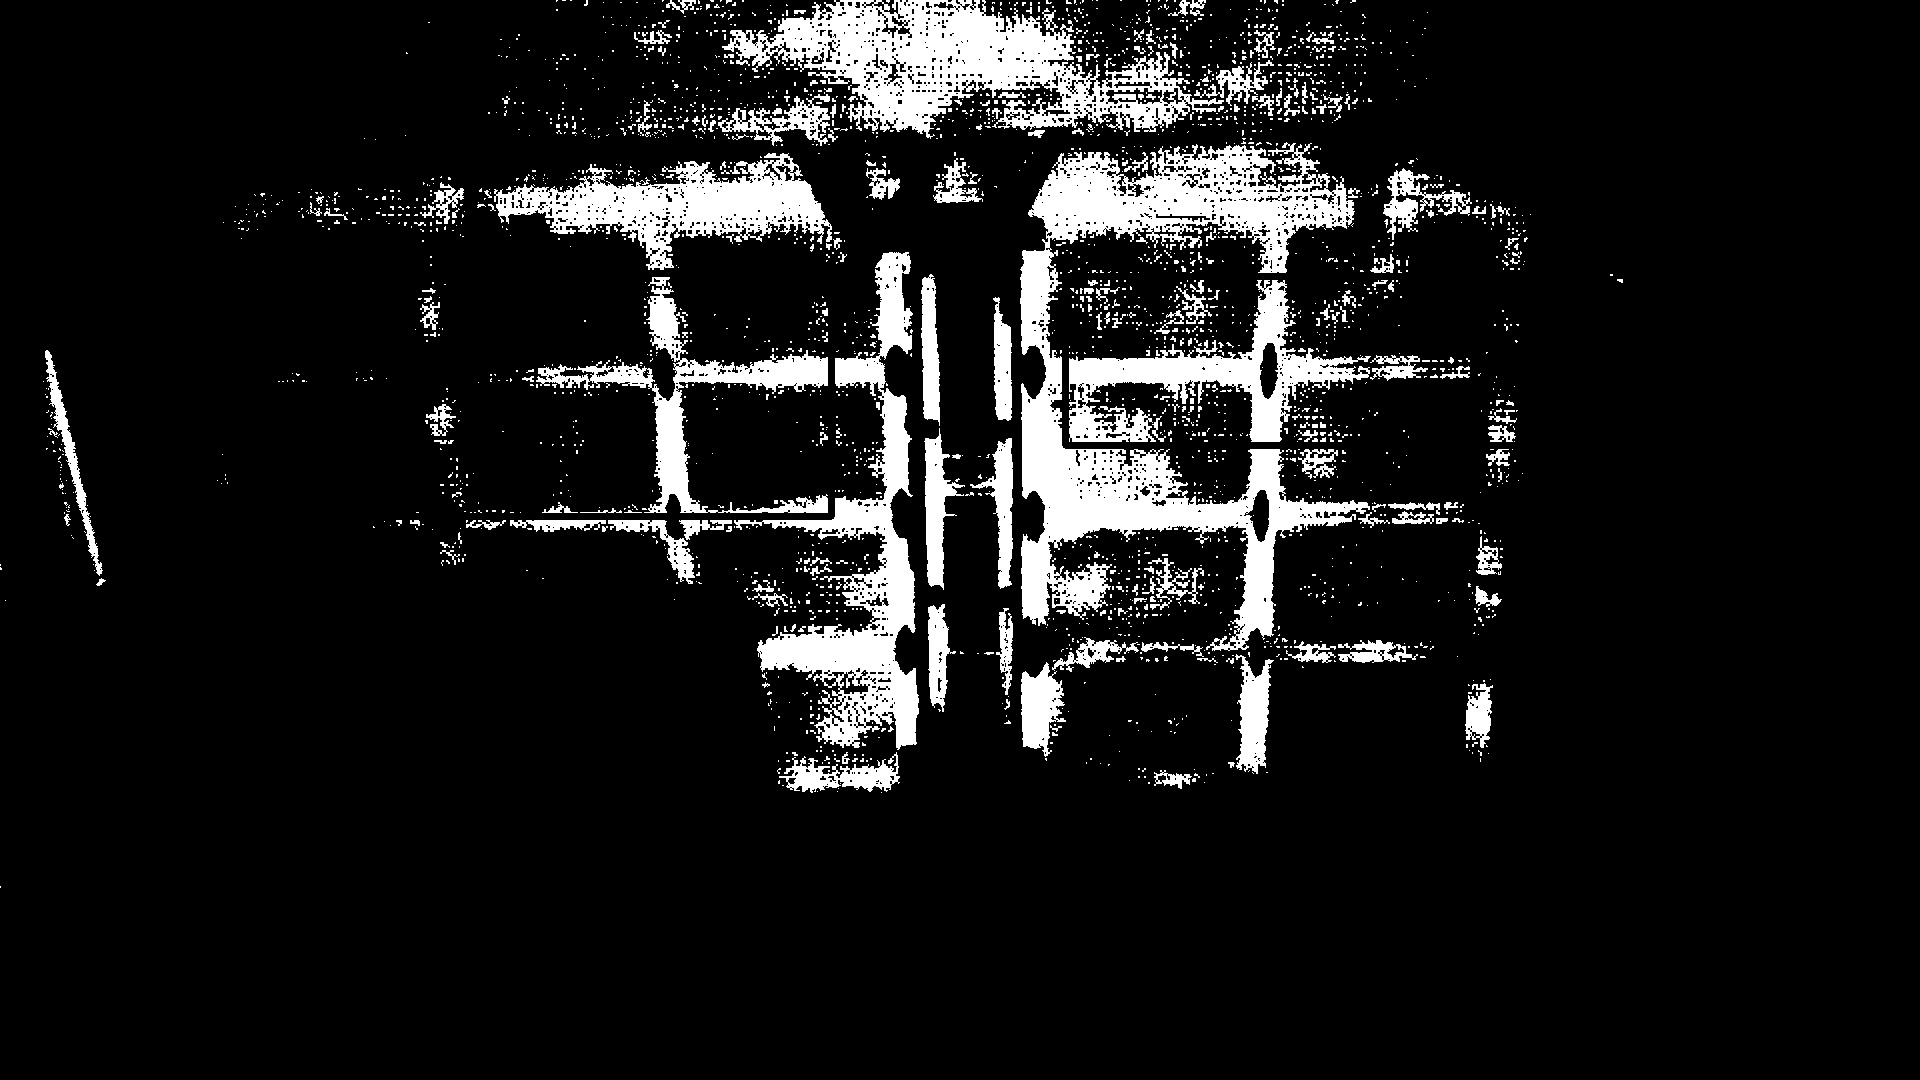
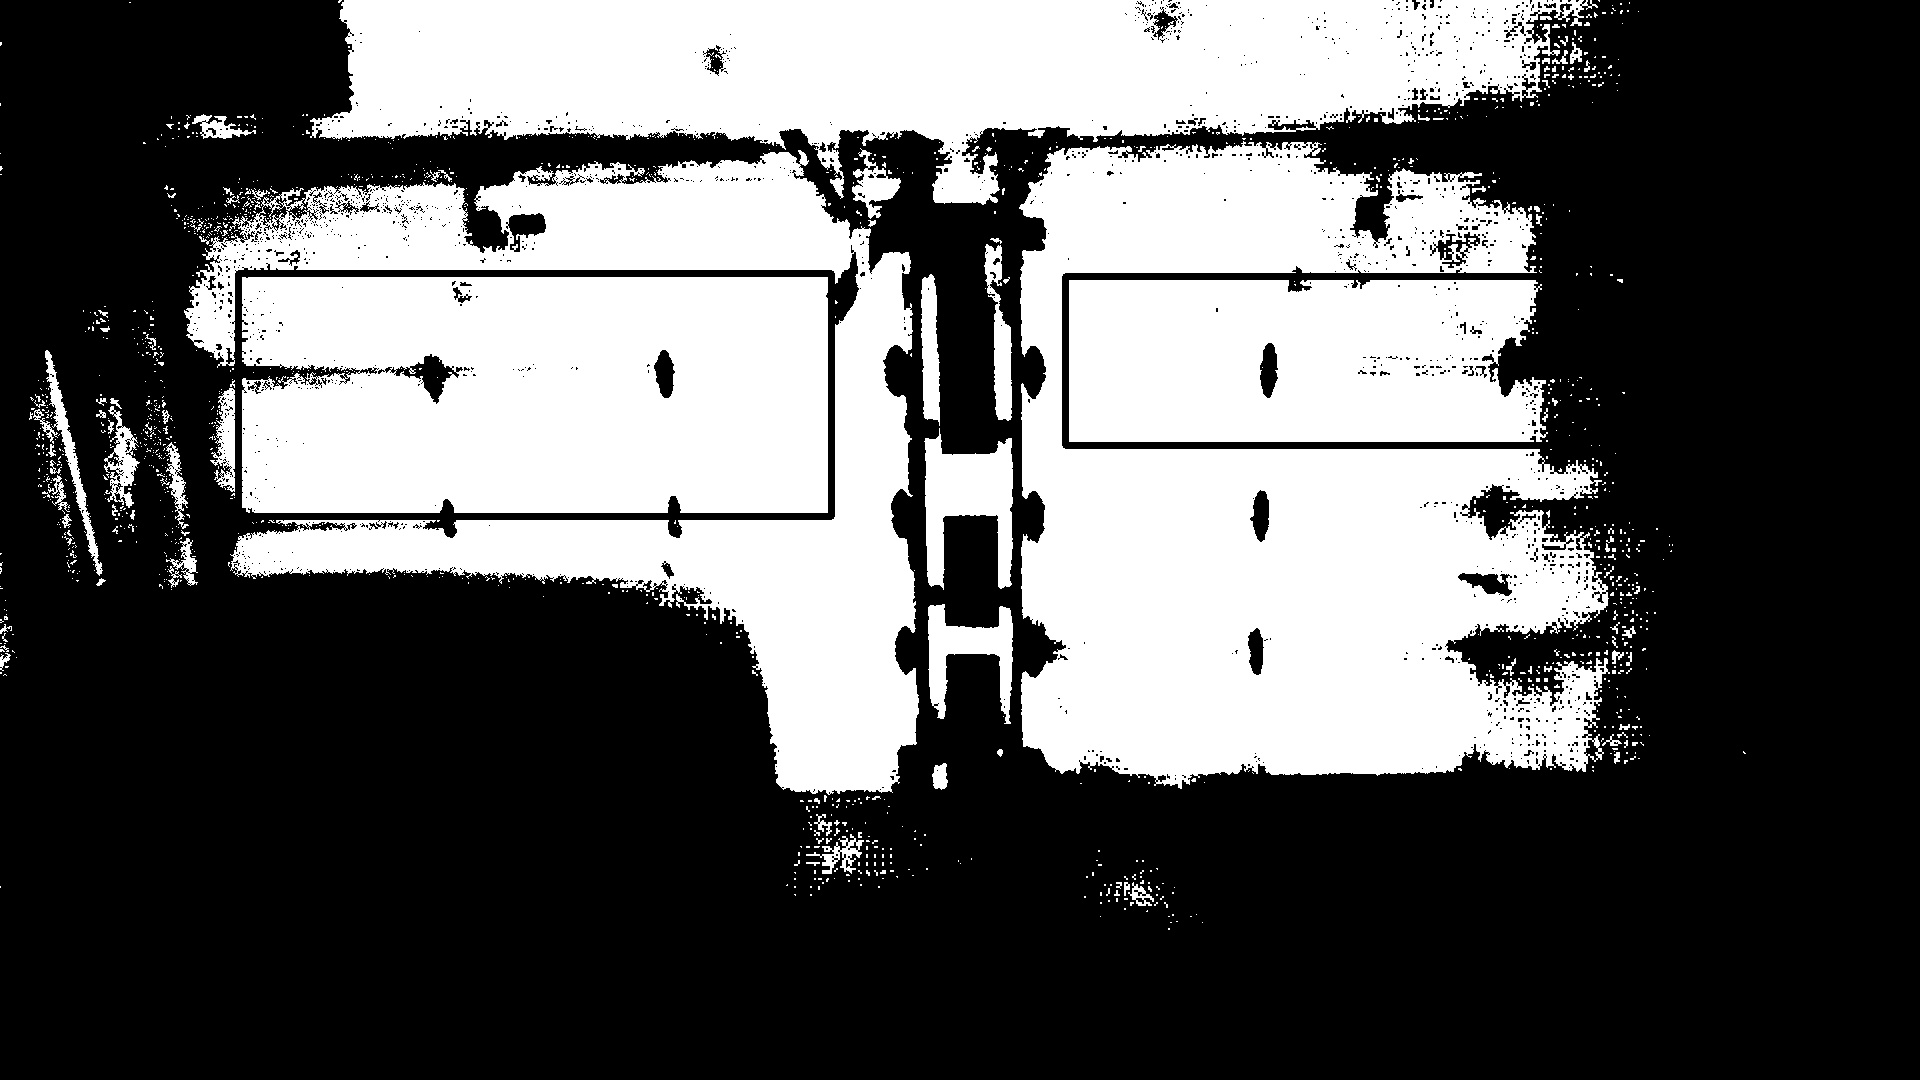
changed brown detection boundaries

Changed region(s): [[0.0, 0.0, 0.8438, 0.825], [0.0938, 0.0917, 0.125, 0.1528], [0.0, 0.3667, 0.0625, 0.3972]]

diff --git a/ImageHandler.py b/ImageHandler.py
@@ -17,7 +17,7 @@ def check_garage_doors_open (root_folder):
     right_pixel_threshold = 150000
     
     light_red1 = np.array([0, 10, 20], dtype="uint8")
-    dark_red1 = np.array([20, 255, 255], dtype="uint8")
+    dark_red1 = np.array([70, 255, 255], dtype="uint8")
     light_red2 = np.array([160, 10, 20], dtype="uint8")
     dark_red2 = np.array([180, 255, 255], dtype="uint8")
 
@@ -78,3 +78,4 @@ def check_garage_doors_open (root_folder):
         return None
 
 check_garage_doors_open ("/home/pi/Desktop/GarageDoorRecognizer")
+# check_garage_doors_open("F:\Windows 10 User Files\Windows 10 User Files - Darren\OneDrive - University of Waterloo\_Side Projects\GarageDoorRecognizer")
